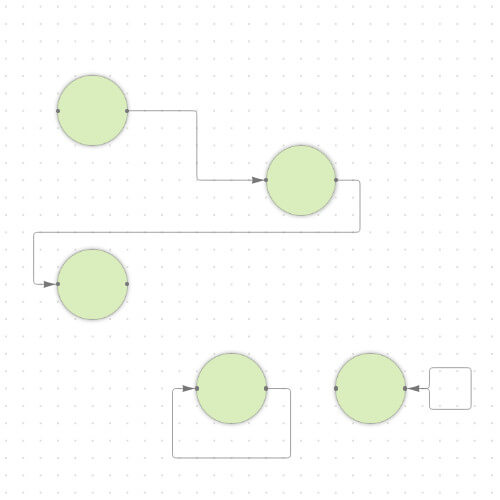
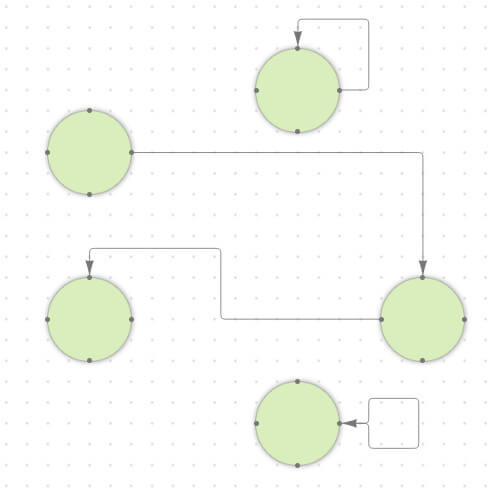
updated orthogonal edge

diff --git a/static/use-cases/orthogonal-edge/index.html b/static/use-cases/orthogonal-edge/index.html
@@ -2,7 +2,7 @@
 <html>
   <head>
     <meta charset="UTF-8" />
-    <title>HTMLGraph | Orthogonal horizontal edges demo</title>
+    <title>HTMLGraph | Orthogonal edges demo</title>
     <meta
       name="viewport"
       content="width=device-width, initial-scale=1.0, user-scalable=no"
@@ -27,6 +27,7 @@
 
       .node {
         display: flex;
+        flex-direction: column;
         justify-content: space-between;
         align-items: center;
         width: 100px;
@@ -38,9 +39,35 @@
         user-select: none;
       }
 
-      .node-port {
+      .node-ports-container {
         position: relative;
+        width: 100%;
+        height: 100%;
+      }
+
+      .node-port {
+        position: absolute;
         width: 0;
+      }
+
+      .node-port-top {
+        left: 50%;
+        top: 0;
+      }
+
+      .node-port-bottom {
+        left: 50%;
+        bottom: 0;
+      }
+
+      .node-port-left {
+        left: 0;
+        top: 50%;
+      }
+
+      .node-port-right {
+        right: 0;
+        top: 50%;
       }
 
       .node-port::after {
@@ -70,6 +97,9 @@
                   hasTargetArrow: true,
                 },
               },
+              ports: {
+                direction: Math.PI / 2,
+              },
             })
             .enableUserDraggableNodes()
             .enableUserTransformableViewport()
@@ -82,69 +112,80 @@
             .addNode(
               this.createNode({
                 x: 200,
-                y: 100,
-                frontPortId: "node-1-in",
-                backPortId: "node-1-out",
-              }),
-            )
-            .addNode(
-              this.createNode({
-                x: 500,
-                y: 200,
-                frontPortId: "node-2-in",
-                backPortId: "node-2-out",
-              }),
-            )
-            .addNode(
-              this.createNode({
-                x: 200,
-                y: 350,
-                frontPortId: "node-3-in",
-                backPortId: "node-3-out",
-              }),
-            )
-            .addNode(
-              this.createNode({
-                x: 400,
-                y: 500,
-                frontPortId: "node-4-in",
-                backPortId: "node-4-out",
+                y: 50,
+                nodeId: "node-1",
               }),
             )
             .addNode(
               this.createNode({
                 x: 600,
-                y: 500,
-                frontPortId: "node-5-in",
-                backPortId: "node-5-out",
+                y: 250,
+                nodeId: "node-2",
               }),
             )
-            .addEdge({ from: "node-1-out", to: "node-2-in" })
-            .addEdge({ from: "node-2-out", to: "node-3-in" })
-            .addEdge({ from: "node-4-out", to: "node-4-in" })
-            .addEdge({ from: "node-5-out", to: "node-5-out" })
+            .addNode(
+              this.createNode({
+                x: 200,
+                y: 250,
+                nodeId: "node-3",
+              }),
+            )
+            .addNode(
+              this.createNode({
+                x: 450,
+                y: -25,
+                nodeId: "node-4",
+              }),
+            )
+            .addNode(
+              this.createNode({
+                x: 450,
+                y: 375,
+                nodeId: "node-5",
+              }),
+            )
+            .addEdge({ from: "node-1-right", to: "node-2-top" })
+            .addEdge({ from: "node-2-left", to: "node-3-top" })
+            .addEdge({ from: "node-4-right", to: "node-4-top" })
+            .addEdge({ from: "node-5-right", to: "node-5-right" })
             .focus();
         }
 
-        createNode({ x, y, frontPortId, backPortId }) {
+        createNode({ nodeId, x, y }) {
           const node = document.createElement("div");
-          const frontPort = document.createElement("div");
-          const backPort = document.createElement("div");
+          const portsContainer = document.createElement("div");
+          const topPort = document.createElement("div");
+          const bottomPort = document.createElement("div");
+          const leftPort = document.createElement("div");
+          const rightPort = document.createElement("div");
 
           node.classList.add("node");
-          frontPort.classList.add("node-port");
-          backPort.classList.add("node-port");
+          portsContainer.classList.add("node-ports-container");
+          topPort.classList.add("node-port");
+          bottomPort.classList.add("node-port");
+          leftPort.classList.add("node-port");
+          rightPort.classList.add("node-port");
 
-          node.appendChild(frontPort);
-          node.appendChild(backPort);
+          topPort.classList.add("node-port-top");
+          bottomPort.classList.add("node-port-bottom");
+          leftPort.classList.add("node-port-left");
+          rightPort.classList.add("node-port-right");
+
+          portsContainer.appendChild(topPort);
+          portsContainer.appendChild(bottomPort);
+          portsContainer.appendChild(leftPort);
+          portsContainer.appendChild(rightPort);
+          node.appendChild(portsContainer);
 
           return {
             element: node,
             x: x,
             y: y,
             ports: [
-              { id: frontPortId, element: frontPort },
-              { id: backPortId, element: backPort },
+              { id: `${nodeId}-top`, element: topPort, direction: Math.PI / 2 },
+              { id: `${nodeId}-bottom`, element: bottomPort, direction: Math.PI / 2},
+              { id: `${nodeId}-left`, element: leftPort, direction: Math.PI },
+              { id: `${nodeId}-right`, element: rightPort, direction: 0 },
             ],
           };
         }

diff --git a/content/edge-shapes/orthogonal.md b/content/edge-shapes/orthogonal.md
@@ -20,11 +20,7 @@ const canvas = new CanvasBuilder(element)
   .build();
 {{< /code >}}
 
-{{< use-case src=/use-cases/orthogonal-edge-horizontal/ >}}
-
-# #
-
-{{< use-case src=/use-cases/orthogonal-edge-vertical/ >}}
+{{< use-case src=/use-cases/orthogonal-edge/ >}}
 
 In addition to `type: "orthogonal"`, the following options are available:
 
